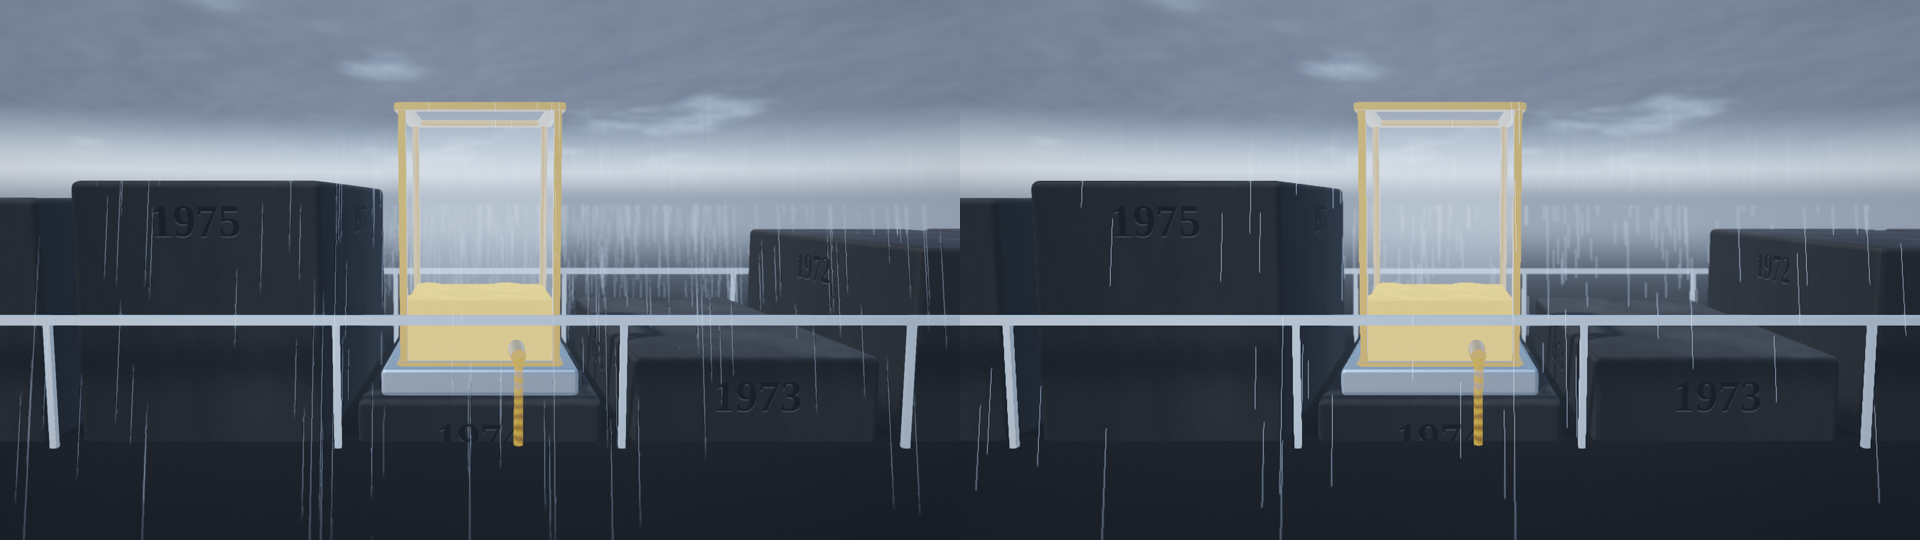
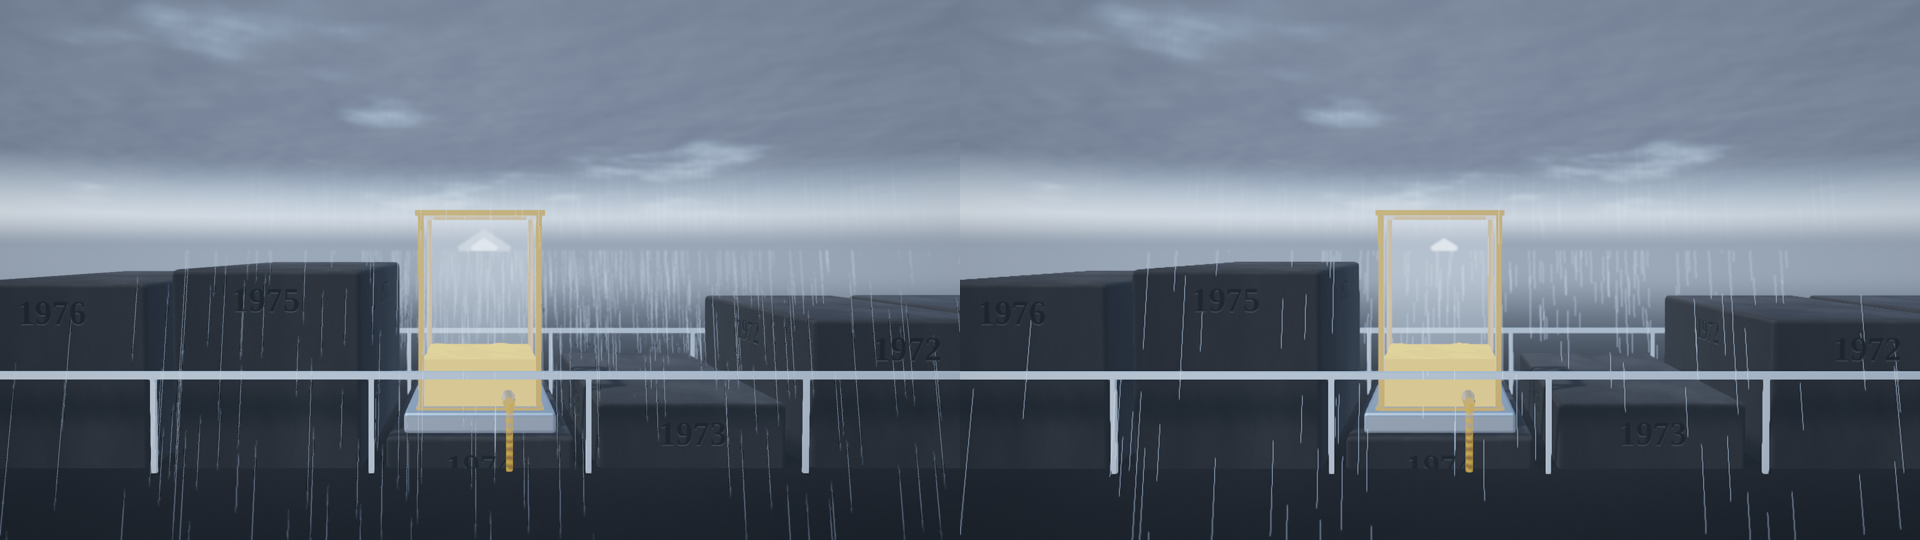
Test D M2c: visual grammar, animatic with voice, stills checks, render benchmark after load reduction
preprod/visual-grammar.md; out/m2c/animatic.mp4 (480p, 24/24 spoken numbers heard); six final stills with
grayscale and colour-vision simulations (V08, C14, V11, F08 pass); load-reduced final mode 40.8-51.8 s per
video second (2.4-2.5x faster than M2b final); report in REPORT-D.md. Stop for review.

Claude-Session: https://claude.ai/code/session_019VjyzPVYE7if4FLwUDYa1m

diff --git a/REPORT-D.md b/REPORT-D.md
@@ -406,3 +406,133 @@ V08 theo nhãn:
 - Tốc độ render trên CPU vượt ngân sách.
 
 **DỪNG**, chờ chủ dự án duyệt hướng hình.
+
+---
+
+# M2c — NGỮ PHÁP HÌNH + ANIMATIC + ĐO RENDER
+
+Nhánh: **`claude/opus55-cine-phase-d-jw6me1`**. checks/ không đổi; SHA khớp LOCK trước mỗi commit. Không render lại lookdev M2b. Bắt đầu 03:36 UTC, xong khoảng 05:25 UTC (khoảng 110 phút, dưới mốc 150).
+
+## 1. Ngữ pháp hình — `preprod/visual-grammar.md`
+Bảng trong file: vật thể → biến → đơn vị → lúc giới thiệu → câu lời đọc → cách gắn nhãn. Các điểm chính:
+
+| vật thể | ý nghĩa |
+|---|---|
+| đường 30 khối đá | thời gian; năm **khắc** trên cả bốn mặt |
+| chiều cao khối | lợi suất năm đó; năm lỗ **chìm dưới đường ray** (ray = mức 0 %) |
+| hai bể kính | số dư, **đi trên con đường**; mỗi năm bể đứng trên khối của năm đó |
+| vòi | khoản rút; to dần theo đô-la danh nghĩa |
+| bể 1966 | làn trái, đi 1966 → 1995 |
+| bể mirror | làn phải, đi **ngược lại** 1995 → 1966 |
+| bão | một **nơi chốn**: mây, mưa, sương trên khối 1973–74; bể chỉ ở trong bão khi đứng trên hai khối đó |
+
+- **Diễn biến một năm (nhân và quả cùng khung):** vòi rót khoản rút → mực nước đổi theo khối và lạm phát năm đó → bể bước sang khối kế.
+- **Một quyết định thiết kế cần chủ dự án biết:**
+  - Chiều cao khối là **lợi suất danh nghĩa**. Đây là 30 con số giống hệt nhau mà hai người đi qua theo thứ tự ngược, đúng câu "cùng lợi suất, khác thứ tự".
+  - Mực nước là **số dư thực**.
+  - Vì vậy khối cao luôn làm nước dâng, khối chìm luôn làm nước hạ. Riêng khối dương thấp trong năm lạm phát cao vẫn có thể làm nước hạ; đó chính là bài học lạm phát của hồi 2.
+- **Bỏ:** đá viền đường của M2b (không mang nghĩa). Mặt đất, bầu trời, bụi xa làm nền mờ.
+- **Năm câu dạy thế giới** thêm vào hồi 1, không có số; claims không đổi (71):
+
+  | id | câu | wpm |
+  |---|---|---|
+  | a1-start.2 | "Their money is the water in this glass tank." | 150 |
+  | a1-raise.2 | "The tap is that withdrawal, and it widens as prices rise." | 149 |
+  | a1-horizon.2 | "Each stone on this road is one year's return; a losing year sinks below the road." | 165 |
+  | a1-horizon.3 | "As the tank passes each stone, the water rises or falls with that year." | 162 |
+  | a1-mirror-rule.3 | "So the mirror tank walks the same road, the other way." | 163 |
+
+  - Cả năm câu dùng V8 (Eric, eleven_v3), cùng quy tắc chọn take.
+  - a1-start.2 đọc quá nhanh ở mọi take (203–329 wpm) nên được thêm dấu ngừng trong phần đọc, như các câu khác. Sau đó take v3 đạt 150 wpm; không câu mới nào phải dùng multilingual.
+  - Credit ElevenLabs: **499 ký tự / 18 lần gọi**, kể cả các take bị thay.
+- Timeline toàn phim đã sinh lại: **729,6 s**, 123 câu. `npm test` 64/64 đạt.
+
+## 2. Sửa thiết kế — kiểm trên 6 ảnh tĩnh chất lượng cuối (`preprod/style-m2c/still-*.png`)
+- **Nhãn:**
+  - Tấm nền tối (`#0B0F17`, 80%), gắn vào bể.
+  - Huy hiệu ILLUSTRATIVE, giá trị và cơ sở ("in 1966 dollars") xếp thành một chồng đi cùng nhau.
+  - Nhãn được đẩy khỏi hộp chiếu của bể/khối trước khi vẽ.
+  - Hai cảnh phải khung lại để có trời phía trên bể: a1-start và a2-1974inf.
+- **Màu chất lỏng:**
+  - 1966 hổ phách: albedo 0,9 × `#FFC857`, tự sáng 0,45.
+  - Mirror xanh đậm hơn: 0,5 × `#5A9CEB`, tự sáng 0,2.
+  - Bể mirror có viền trên **đứt đoạn**, bể 1966 viền liền: dấu hiệu hình dạng, không phụ thuộc màu.
+  - Ảnh thang xám và mô phỏng deuteranopia/protanopia (Machado 2009) nằm cạnh mỗi ảnh tĩnh (`*-gray.png`, `*-deutan.png`, `*-protan.png`).
+  - Hổ phách vẫn đọc ra vàng dưới trời bão và dưới cả hai mô phỏng.
+  - **Độ sáng đo trên animatic:** hổ phách 157–181, xanh 137–154 (trên 255). Khác biệt chỉ 20–27 mức, nên ở thang xám hai bể phân biệt được nhưng **chưa mạnh**. Hình viền và làn đường gánh phần còn lại.
+- **Khối tiền cảnh:** camera cao ≥ 2,3 m khi nhìn dọc đường, hoặc đứng ngoài đường ray khi quay ngang.
+- **Banding trời:** dither tam giác ±2 LSB ở vùng tối, ±1 ở vùng sáng.
+- **Kết quả checks trên 6 ảnh tĩnh** (`out/m2c/stills-root`, mỗi ảnh giữ 4 s; `checks/run.sh`, không sửa checks):
+
+  | luật | kết quả | chi tiết |
+  |---|---|---|
+  | V08 | **ĐẠT** | tương phản tệ nhất 9,75:1 |
+  | C14 | **ĐẠT** | 0 mẫu không đọc được ở 25% |
+  | V11 | **ĐẠT** | 0 va chạm, sau hai lần khung lại |
+  | F08 | **ĐẠT** | banding tệ nhất 0,03% |
+
+  - Lần chạy đầu cho kết quả rỗng: độ hiện của nhãn tính theo thời gian video thay vì thời gian câu chuyện. Đã sửa rồi chạy lại.
+  - Lần chạy thứ hai V11 trượt: nhãn "$1 million" và "lost 14.7%" chạm bể, do thiếu chỗ trời phía trên. Đã khung lại.
+- **Âm thanh — ASR nghe đúng "1991":**
+  - **Nguyên nhân thật:** đoạn cắt đuôi câu quyết định (cuối từ ASR + 90 ms) cắt mất âm cuối của "ninety-one". Riêng stem giọng vẫn nghe đúng, nhưng thêm bất kỳ lớp nào (nhạc, âm vật lý, thậm chí room tone −60 dB) là ASR nghe thành "1990". M2 master cũng cho "1990" trên đoạn này; A14 của M2 đạt chỉ nhờ ngữ cảnh cả bài.
+  - **Sửa:** cắt ở +250 ms.
+  - **Thêm:**
+    - Lớp âm vật lý giảm −10 dB khi có lời.
+    - Nhạc, whoosh và SFX giảm −24 dB trong cửa sổ −0,5 → +1,6 s quanh mỗi con số.
+  - **Kết quả trên animatic:** **24/24 con số nghe đúng**, kể cả "1991" (`out/m2c/asr-numbers.json`).
+
+## 3. Animatic — `out/m2c/animatic.mp4` (854×480, 133,9 s, có giọng, nhạc, âm vật lý)
+- **(a) Cold open + ident**, rồi 14 câu hồi 1 dạy thế giới:
+  - a1-est → a1-start (bể, $1 million) → a1-rule (vòi mở, $40,000);
+  - a1-raise (vòi to dần) → a1-horizon (con đường, khối, ray = 0 %, bể đi qua 1966–1967: nước hạ rồi dâng);
+  - a1-mirror-in / a1-mirror-rule (bể mirror ở đầu 1995, đi ngược 1995 → 1993).
+- **(b) 1973–74:**
+  - Bể 1966 bước vào vùng bão trên khối 1973 rồi 1974.
+  - "lost 14.7%": sấm chớp, nước hạ.
+  - "prices rose 12.3%": vòi to thêm đúng 12,3% trong khung đó.
+  - "$461,000".
+  - Cắt sang bể mirror ở khối 1987 trong nắng: "$1.27 million" + ILLUSTRATIVE.
+- **Chế độ rẻ:** không mưa, không làm mờ chuyển động, không DOF/bloom, bóng 1024. Render 1.019 s cho 133,9 s (7,6 s/s, 3 worker). −14,1 LUFS.
+- **Giới hạn đã biết:**
+  - Đám mây bão là khối cầu mờ, thô ở 480p.
+  - Huy hiệu ILLUSTRATIVE hiện trước con số 0,2 s và có lúc đứng lệch khỏi chồng trong khoảng đó (đúng luật S08: huy hiệu không muộn hơn số).
+  - Cảnh a1-horizon.3 là bản xem trước hai năm đầu (1966, 1967) để dạy quy tắc; sau đó bể 1966 đứng ở 1968 trong các cảnh mirror.
+
+## 4. Đo render sau giảm tải (cho bản cuối)
+**Giảm tải** (chế độ `fast` trong `render-d/look/world2.js`):
+- Render 3D ở 1280×720 rồi phóng lên 1080p, có làm nét nhẹ.
+- Làm mờ chuyển động theo vận tốc máy quay: chiếu lại mỗi điểm ảnh bằng camera lúc mở và đóng màn trập 180°, 10 mẫu.
+- LOD: mưa 2.600 vệt thay vì 6.000; bụi 900 thay vì 2.200.
+- Tia nắng/volumetric chỉ ở cảnh có mặt trời trong khung.
+
+**Benchmark 5 s cho mỗi loại cảnh** (máy rảnh, 1 trang; `out/m2c/bench.json`):
+
+| loại cảnh | đoạn | **sau giảm tải (s/s)** | trước giảm tải (s/s)* | giảm |
+|---|---|---|---|---|
+| trời quang | a1-horizon.1 | **40,8** | 103,3 | 2,5× |
+| bão (mưa, chớp) | a2-1974inf.1 | **45,9** | 116,1 | 2,5× |
+| cận cảnh | a1-start.1 | **51,8** | 126,5 | 2,4× |
+
+\* Chế độ final của M2b: 1080p, phần dư subframe nửa độ phân giải; đo trên 1 s của cùng đoạn.
+
+- Ảnh so sánh cùng khung (trái = trước, phải = sau): `preprod/style-m2c/bench-{clear,storm,close}.png` và bản cắt 1:1 `*-crop.png`. Ở 1:1 gần như không phân biệt được; bản sau giảm tải cạnh hơi gắt hơn vì làm nét sau phóng.
+- Cả ba loại cảnh **dưới ngưỡng 60 s/s** của BRIEF-D §8b.
+- Số chạy khi máy đang bận (bị lấn CPU) có trong `out/m2c/bench-contended.json`; không dùng.
+- **Ước tính toàn phim trong MỘT phiên** (container 4 nhân, không GPU, 1 trang):
+  - Phim 729,6 s.
+  - Tỷ lệ giả định: khoảng 55% trời quang/toàn cảnh, 10% bão, 35% cận cảnh → trung bình khoảng **45 s/s** → **khoảng 9,1 giờ** render, cộng encode, âm thanh và checks.
+  - **Không vừa một phiên cỡ 4 giờ.**
+  - Chạy nhiều trang trong cùng máy không nhanh hơn (đo ở M2b: mọi trang dùng chung một tiến trình GPU phần mềm).
+  - Muốn xong trong một phiên cỡ 4 giờ cần: hoặc **3 container song song** (khoảng 3 giờ mỗi container), hoặc máy có GPU.
+
+## Việc chưa làm / cần duyệt
+- Chưa render lại lookdev chất lượng cuối (đúng yêu cầu).
+- Chưa làm M3.
+- Chưa chạy checks cả bài trên animatic (animatic chỉ để kiểm sự liên kết).
+- Các sửa lỗi M3 đã biết còn nguyên, trừ phần đã sửa ở đây: nhãn/tương phản, banding, "1991", ducking.
+- Cần chủ dự án duyệt:
+  - (1) quy ước "chiều cao khối = lợi suất danh nghĩa; mực nước = số dư thực";
+  - (2) nhịp dạy thế giới trong hồi 1;
+  - (3) phương án render toàn phim (3 container song song hay máy có GPU).
+
+**DỪNG**, chờ duyệt.
